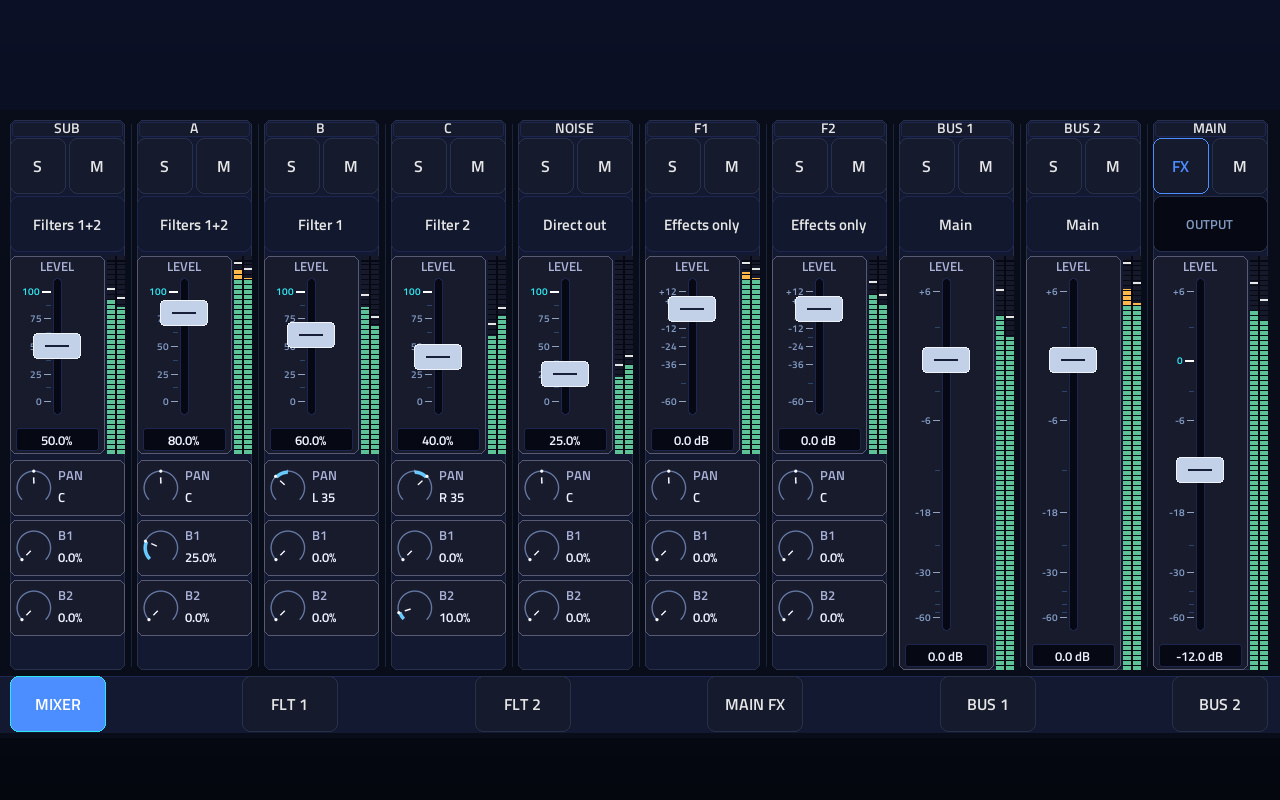
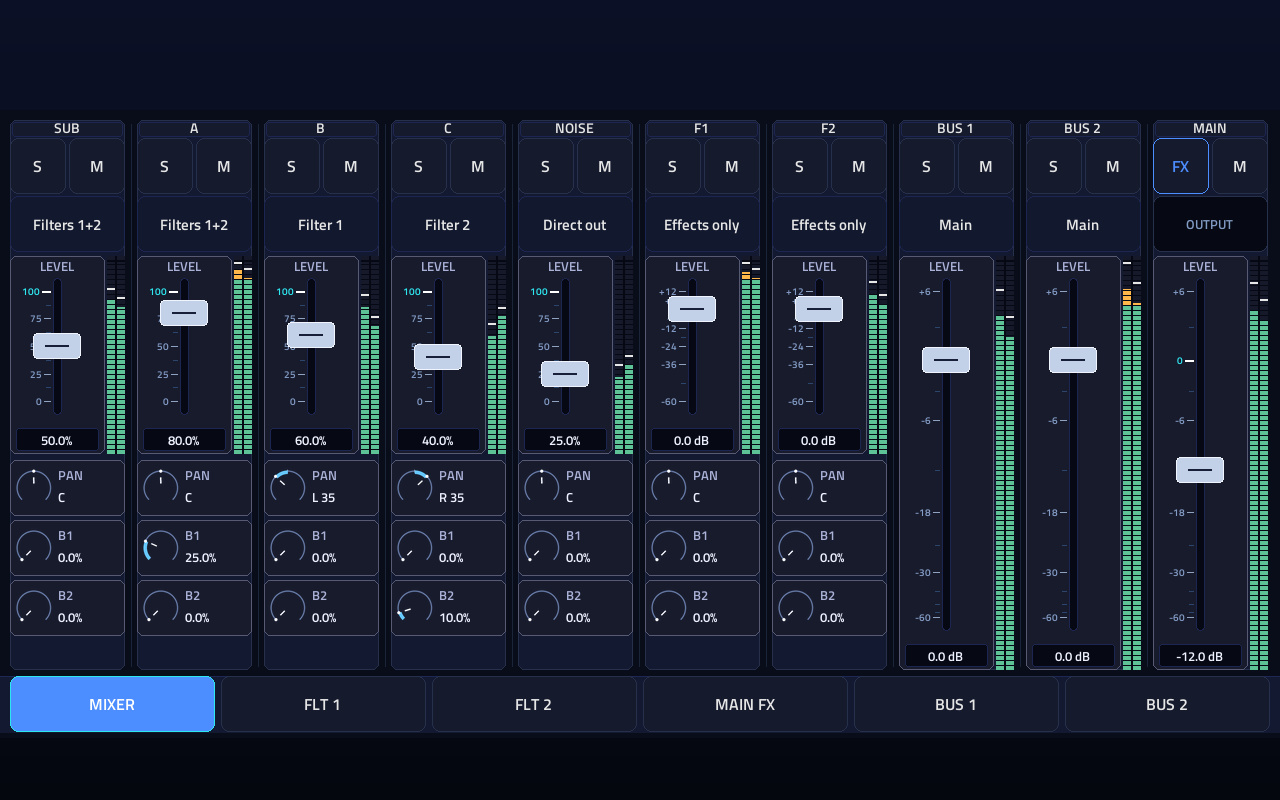
Fix Mixer bottom navigation layout, geometry and shared renderer

diff --git a/docs/ui-components/native-katalogus.html b/docs/ui-components/native-katalogus.html
@@ -15,7 +15,7 @@
 <section id="lfo"><h2>LFO</h2><p>Fejlesztési előnézet · offline render, nem hardveres felvétel</p><div class="pair"><figure><a href="../screens/lfo.jpg?v=1406545b25db"><img src="../screens/lfo.jpg?v=1406545b25db" alt="LFO · aktuális előnézet"></a><figcaption>LFO · aktuális előnézet</figcaption></figure></div></section>
 <section id="rnd"><h2>RND</h2><p>Fejlesztési előnézet · offline render, nem hardveres felvétel</p><div class="pair"><figure><a href="../screens/rnd.jpg?v=b52bc095e2c8"><img src="../screens/rnd.jpg?v=b52bc095e2c8" alt="RND · aktuális előnézet"></a><figcaption>RND · aktuális előnézet</figcaption></figure></div></section>
 <section id="fx"><h2>FX</h2><p>Mai natív TUI + aktuális C++ FX overlay · szintetikus offline render, nem hardveres felvétel</p><div class="pair"><figure><a href="../screens/fx.jpg?v=ebd46e5c3d1a"><img src="../screens/fx.jpg?v=ebd46e5c3d1a" alt="FX · aktuális előnézet"></a><figcaption>FX · aktuális előnézet</figcaption></figure></div></section>
-<section id="mixer"><h2>Mixer</h2><p>Fejlesztési előnézet · offline render, nem hardveres felvétel</p><div class="pair"><figure><a href="../screens/mixer_old.jpg?v=cd315c9184ef"><img src="../screens/mixer_old.jpg?v=cd315c9184ef" alt="Mixer · rögzített régi referencia"></a><figcaption>Mixer · rögzített régi referencia</figcaption></figure><figure><a href="../screens/mixer.jpg?v=63937779bf51"><img src="../screens/mixer.jpg?v=63937779bf51" alt="Mixer · aktuális előnézet"></a><figcaption>Mixer · aktuális előnézet</figcaption></figure></div></section>
+<section id="mixer"><h2>Mixer</h2><p>Fejlesztési előnézet · offline render, nem hardveres felvétel</p><div class="pair"><figure><a href="../screens/mixer_old.jpg?v=cd315c9184ef"><img src="../screens/mixer_old.jpg?v=cd315c9184ef" alt="Mixer · rögzített régi referencia"></a><figcaption>Mixer · rögzített régi referencia</figcaption></figure><figure><a href="../screens/mixer.jpg?v=db2edbcbad7e"><img src="../screens/mixer.jpg?v=db2edbcbad7e" alt="Mixer · aktuális előnézet"></a><figcaption>Mixer · aktuális előnézet</figcaption></figure></div></section>
 <section id="filter"><h2>Filter</h2><p>Nem elfogadott fejlesztési előnézet · a natív megjelenés javítása folyamatban</p><div class="pair"><figure><a href="../screens/filter_old.jpg?v=0f55a2bfbe5c"><img src="../screens/filter_old.jpg?v=0f55a2bfbe5c" alt="Filter · rögzített régi referencia"></a><figcaption>Filter · rögzített régi referencia</figcaption></figure><figure><a href="../screens/filter.jpg?v=61aff45f70cc"><img src="../screens/filter.jpg?v=61aff45f70cc" alt="Filter · aktuális előnézet"></a><figcaption>Filter · aktuális előnézet</figcaption></figure></div></section>
 <section id="mod"><h2>Mod</h2><p>Fejlesztési előnézet · offline render, nem hardveres felvétel</p><div class="pair"><figure><a href="../screens/mod_old.jpg?v=0e79df023a0a"><img src="../screens/mod_old.jpg?v=0e79df023a0a" alt="Mod · rögzített régi referencia"></a><figcaption>Mod · rögzített régi referencia</figcaption></figure><figure><a href="../screens/mod.jpg?v=7aba84586097"><img src="../screens/mod.jpg?v=7aba84586097" alt="Mod · aktuális előnézet"></a><figcaption>Mod · aktuális előnézet</figcaption></figure></div></section>
 <section id="master"><h2>Master</h2><p>Átvett korábbi fejlesztési előnézet · nem a mai build hitelesítése</p><div class="pair"><figure><a href="../screens/master_old.jpg?v=dac4721df195"><img src="../screens/master_old.jpg?v=dac4721df195" alt="Master · rögzített régi referencia"></a><figcaption>Master · rögzített régi referencia</figcaption></figure><figure><a href="../screens/master.jpg?v=598d34d3f23e"><img src="../screens/master.jpg?v=598d34d3f23e" alt="Master · aktuális előnézet"></a><figcaption>Master · aktuális előnézet</figcaption></figure></div></section>

diff --git a/scripts/mpc-skin-extras/84_mixer.py b/scripts/mpc-skin-extras/84_mixer.py
@@ -4,6 +4,13 @@
 from pathlib import Path
 from PIL import Image, ImageDraw
 
+from mixer_tabs import (
+    MIXER_TABS,
+    MIXER_TAB_LABELS,
+    mixer_tab_rect,
+    render_mixer_tab_filmstrip,
+    render_mixer_tab_hit,
+)
 from native_skin_font import semibold
 from native_ui_params import (
     MIXER_STEREO_BASE, MIXER_STEREO_FIELDS,
@@ -16,7 +23,6 @@ from native_ui_params import (
     MIXER_PEEK_TARGETS,
     MIXER_SOLO_OFFSET,
     MIXER_SOLO_VISUAL,
-    MIXER_TABS,
     mixer_peek_index,
 )
 from components.style import color as _style_color, rgb as _style_rgb, size as _style_size
@@ -61,33 +67,11 @@ def button(name, parameter, rect, gates, index=1, count=1, art=("toggle_on.png",
 
 def tab_filmstrip_art(skins_dir, caption, tab_index):
     """Generates a 6-frame FilmStrip PNG highlighting tab `tab_index` when active."""
-    font = semibold(_style_size("mixer_strip.font.sm"))
-    bw = _style_size("mixer_strip.tab.width")
-    bh = _style_size("mixer_strip.tab.height")
-    radius = _style_size("radius.field")
-    sheet = Image.new("RGBA", (bw, bh * MIXER_TABS), (0, 0, 0, 0))
-    for frame in range(MIXER_TABS):
-        active = (frame == tab_index)
-        img = Image.new("RGBA", (bw, bh), (0, 0, 0, 0))
-        draw = ImageDraw.Draw(img)
-        fill = _style_rgb("dial.value") if active else _style_rgb("button.surface")
-        outline = _style_rgb("accent.cyan") if active else _style_rgb("button.border")
-        draw.rounded_rectangle([0, 0, bw - 1, bh - 1], radius=radius, fill=fill, outline=outline, width=1)
-        text_fill = _style_color("text.white") if active else _style_color("text.icon")
-        draw.text((bw // 2, bh // 2), caption, fill=text_fill, font=font, anchor="mm")
-        sheet.alpha_composite(img, (0, frame * bh))
-    slug = caption.lower().replace(" ", "_")
-    filename = f"mixer_tab_{slug}_states.png"
-    sheet.save(skins_dir / filename)
-    return filename
+    return render_mixer_tab_filmstrip(skins_dir, caption, tab_index)
 
 
 def tab_hit_art(skins_dir):
-    bw = _style_size("mixer_strip.tab.width")
-    bh = _style_size("mixer_strip.tab.height")
-    filename = "mixer_tab_hit.png"
-    Image.new("RGBA", (bw, bh), (0, 0, 0, 0)).save(skins_dir / filename)
-    return filename
+    return render_mixer_tab_hit(skins_dir)
 
 
 def apply(tui, qlinks, ctx):
@@ -204,17 +188,12 @@ def apply(tui, qlinks, ctx):
     # Native 6-tab navigation action row (MIXER=0, FLT 1=1, FLT 2=2, MAIN FX=3, BUS 1=4, BUS 2=5).
     # Gated on modal_gate (< 19) so tabs remain active in MIXER and all 5 docked editors (where
     # mixerPeek keeps Overlay Instance < 19), while hiding cleanly for full-screen modals (MODS/List).
-    all_tabs = ("MIXER", *PEEK_LABELS)
+    all_tabs = MIXER_TAB_LABELS
     supply_replacement_strings(tui, base, all_tabs)
-    peek_y = start_y + height + _style_size("mixer_strip.tab.gap_y")
-    bw = _style_size("mixer_strip.tab.width")
-    peek_h = _style_size("mixer_strip.tab.height")
-    tab_start_x = _style_size("mixer_strip.tab.start_x")
-    tab_span_x = _style_size("mixer_strip.tab.span_x")
     hit_png = tab_hit_art(Path(ctx.skins_dir)) if skins_dir else "toggle_off.png"
 
     for k, caption in enumerate(all_tabs):
-        x = tab_start_x + int(round(tab_span_x * (k / (MIXER_TABS - 1))))
+        rect = mixer_tab_rect(k)
         if skins_dir:
             film = tab_filmstrip_art(Path(skins_dir), caption, k)
             vis_data = {
@@ -226,6 +205,6 @@ def apply(tui, qlinks, ctx):
                 "handleName": "Data",
             }
             components.append(entry(f"{NATIVE}{caption} Tab Visual", "Image", vis_data,
-                                    (x, peek_y, bw, peek_h), (("Data", base + MIXER_ACTIVE_TAB),), modal_gate, focus=False))
-        components.append(button(f"{NATIVE}{caption} Peek", base, (x, peek_y, bw, peek_h), modal_gate,
+                                    rect, (("Data", base + MIXER_ACTIVE_TAB),), modal_gate, focus=False))
+        components.append(button(f"{NATIVE}{caption} Peek", base, rect, modal_gate,
                                  index=k, count=MIXER_TABS, art=(hit_png, hit_png)))

diff --git a/scripts/mixer_tabs.py b/scripts/mixer_tabs.py
@@ -1,0 +1,79 @@
+# Copyright (C) 2026 Safian Szabolcs
+# SPDX-License-Identifier: AGPL-3.0-or-later
+"""Shared Mixer bottom 6-tab navigation bar geometry and rendering.
+
+Single-sources the 6-tab bottom navigation layout and artwork between the
+production MPC TUI filmstrip generation (84_mixer.py) and the offline
+preview renderer (render_mixer_preview.py).
+"""
+from pathlib import Path
+from PIL import Image, ImageDraw
+
+from components.native.mixer_strip.mixer_strip import semibold
+from components.style import color as _style_color, rgb as _style_rgb, size as _style_size
+
+MIXER_TABS = 6
+MIXER_TAB_LABELS = ("MIXER", "FLT 1", "FLT 2", "MAIN FX", "BUS 1", "BUS 2")
+
+
+def mixer_tab_rect(index: int) -> tuple[int, int, int, int]:
+    """Returns the (x, y, width, height) bounding box for tab `index` (0..5)."""
+    start_x = _style_size("mixer_strip.tab.start_x")
+    start_y = _style_size("mixer_strip.start_y")
+    strip_h = _style_size("mixer_strip.height")
+    gap_y = _style_size("mixer_strip.tab.gap_y")
+    gap_x = _style_size("mixer_strip.tab.gap_x")
+    bw = _style_size("mixer_strip.tab.width")
+    bh = _style_size("mixer_strip.tab.height")
+
+    x = start_x + index * (bw + gap_x)
+    y = start_y + strip_h + gap_y
+    return (x, y, bw, bh)
+
+
+def render_mixer_tab_face(caption: str, active: bool, width: int = None, height: int = None) -> Image.Image:
+    """Renders a single tab button face image (width x height) in active or inactive state."""
+    bw = width if width is not None else _style_size("mixer_strip.tab.width")
+    bh = height if height is not None else _style_size("mixer_strip.tab.height")
+    radius = _style_size("radius.field")
+    font = semibold(_style_size("mixer_strip.font.sm"))
+
+    img = Image.new("RGBA", (bw, bh), (0, 0, 0, 0))
+    draw = ImageDraw.Draw(img)
+    fill = _style_rgb("dial.value") if active else _style_rgb("button.surface")
+    outline = _style_rgb("accent.cyan") if active else _style_rgb("button.border")
+    draw.rounded_rectangle([0, 0, bw - 1, bh - 1], radius=radius, fill=fill, outline=outline, width=1)
+    text_fill = _style_color("text.white") if active else _style_color("text.icon")
+    draw.text((bw // 2, bh // 2), caption, fill=text_fill, font=font, anchor="mm")
+    return img
+
+
+def render_mixer_tab_bar(canvas: Image.Image, active_tab: int = 0) -> None:
+    """Renders the persistent 6-tab bottom navigation bar directly onto `canvas`."""
+    for k, caption in enumerate(MIXER_TAB_LABELS):
+        rx, ry, rw, rh = mixer_tab_rect(k)
+        face = render_mixer_tab_face(caption, active=(k == active_tab), width=rw, height=rh)
+        canvas.alpha_composite(face, (rx, ry))
+
+
+def render_mixer_tab_filmstrip(skins_dir: Path, caption: str, tab_index: int) -> str:
+    """Generates a 6-frame vertical FilmStrip PNG highlighting tab `tab_index` when active."""
+    bw = _style_size("mixer_strip.tab.width")
+    bh = _style_size("mixer_strip.tab.height")
+    sheet = Image.new("RGBA", (bw, bh * MIXER_TABS), (0, 0, 0, 0))
+    for frame in range(MIXER_TABS):
+        face = render_mixer_tab_face(caption, active=(frame == tab_index), width=bw, height=bh)
+        sheet.alpha_composite(face, (0, frame * bh))
+    slug = caption.lower().replace(" ", "_")
+    filename = f"mixer_tab_{slug}_states.png"
+    sheet.save(skins_dir / filename)
+    return filename
+
+
+def render_mixer_tab_hit(skins_dir: Path) -> str:
+    """Generates a transparent hit-box PNG matching tab dimensions."""
+    bw = _style_size("mixer_strip.tab.width")
+    bh = _style_size("mixer_strip.tab.height")
+    filename = "mixer_tab_hit.png"
+    Image.new("RGBA", (bw, bh), (0, 0, 0, 0)).save(skins_dir / filename)
+    return filename

diff --git a/scripts/render_mixer_preview.py b/scripts/render_mixer_preview.py
@@ -22,6 +22,7 @@ sys.path.insert(0, str(ROOT))
 sys.path.insert(0, str(ROOT / "scripts"))
 
 from screen_images import require_external_output, save_screen, screen_path
+from mixer_tabs import render_mixer_tab_bar
 from components.native.mixer_strip.mixer_strip import (
     build_mixer_strip_definitions,
     render_mixer_full_screen_background,
@@ -100,24 +101,8 @@ def _render_mixer_tab_canvas(active_tab: int = 0, meter_readout=None) -> Image.I
         strip_img = render_mixer_strip(st["variant"], st)
         tab_bg.alpha_composite(strip_img, (start_x + stride * i, strip_y))
 
-    # Draw persistent 6-tab bottom bar matching 84_mixer.py geometry and colors verbatim
-    draw_tab = ImageDraw.Draw(tab_bg)
-    f_peek = semibold(_style_size("mixer_strip.font.sm"))
-    all_tabs = ("MIXER", "FLT 1", "FLT 2", "MAIN FX", "BUS 1", "BUS 2")
-    peek_y = strip_y + _style_size("mixer_strip.height") + _style_size("mixer_strip.tab.gap_y")
-    bw = _style_size("mixer_strip.tab.width")
-    bh = _style_size("mixer_strip.tab.height")
-    tab_x0 = _style_size("mixer_strip.tab.start_x")
-    tab_span = _style_size("mixer_strip.tab.span_x")
-    radius = _style_size("radius.field")
-    for k, caption in enumerate(all_tabs):
-        px = tab_x0 + int(round(tab_span * (k / (len(all_tabs) - 1))))
-        is_active = (k == active_tab)
-        fill = _style_rgb("dial.value") if is_active else _style_rgb("button.surface")
-        outline = _style_rgb("accent.cyan") if is_active else _style_rgb("button.border")
-        fg = _style_color("text.white") if is_active else _style_color("text.icon")
-        draw_tab.rounded_rectangle([px, peek_y, px + bw - 1, peek_y + bh - 1], radius=radius, fill=fill, outline=outline, width=1)
-        draw_tab.text((px + bw // 2, peek_y + bh // 2), caption, font=f_peek, fill=fg, anchor="mm")
+    # Draw persistent 6-tab bottom bar using shared mixer_tabs renderer
+    render_mixer_tab_bar(tab_bg, active_tab=active_tab)
 
     return tab_bg
 
